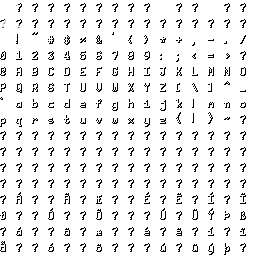
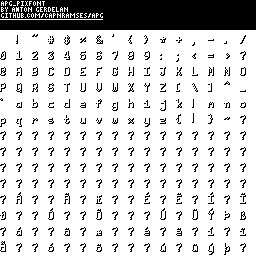
i think this works

diff --git a/116_pixelfont_shader/main.c b/116_pixelfont_shader/main.c
@@ -4,6 +4,7 @@
 #include "apg_unicode.h"
 #include "gfx.h"
 #include "glcontext.h"
+#include <assert.h>
 #include <math.h>
 #include <stdio.h>
 #include <string.h>
@@ -45,143 +46,205 @@ void _draw_mesh_instanced( const gfx_shader_t* shader_ptr, mat4 M, uint32_t vao,
   }
 }
 
+// In pixels.
+static int _get_spacing_for_codepoint( uint32_t codepoint ) {
+  if ( 'l' == codepoint || '!' == codepoint || '\'' == codepoint || '|' == codepoint || ':' == codepoint ) { return 2; }
+  if ( ',' == codepoint || '.' == codepoint || '`' == codepoint || ';' == codepoint ) { return 3; }
+  if ( '(' == codepoint || ')' == codepoint || ' ' == codepoint ) { return 4; }
+  if ( '{' == codepoint || '}' == codepoint ) { return 5; }
+  if ( '&' == codepoint ) { return 7; }
+  return 6;
+}
 
-work in progress - convert this function, stop trying to be too clever with instanced rendering.
+// TODO get rid of scale_x,scale_y and replace with aspect ratio and a single scale factor.
+// TODO avoid boxes overlapping - make them smaller to avoid artifacts, and adjust scales to suit.
 
-void text_to_vbo( const char* str, float at_x, float at_y, float scale_px, GLuint* points_vbo, GLuint* texcoords_vbo, int* point_count ) {
-  int len = strlen( str );
+/**
+ * @param str_ptr         Address of a null-terminated UTF-8 or ASCII string.
+ * @param points_vbo      An existing (previously generated) vertex buffer object for vertex points.
+ * @param texcoords_vbo   An existing (previously generated) vertex buffer object for texture coordinates.
+ * @param n_verts_ptr     Address of a variable to store the number of vertex points created. Must not be NULL.
+ */
+void text_to_vbo( const char* str_ptr, GLuint points_vbo, GLuint texcoords_vbo, size_t* n_verts_ptr, float* total_w, float* total_h ) {
+  const int atlas_cols = 16, atlas_rows = 16;
+  const size_t max_len = 2048;
+  // Size of a full glyph box in clip space, before aspect ratio calculation. 2.0 would cover the whole range from -1,1 on x and y on a square viewport.
+  const float quad_scale        = 2.0f;
+  const float magic_num         = 0.0625f; // TODO !!!! I have no idea if this is correct.
+  const float magic_linespacing = 0.0025f; // TODO !!!! relate to scale - try different scales/aspects/etc.
+  float at_x = 0.0f, at_y = 0.0f;          // This is starting centre of the top-left glyph box in clip space.
+  float max_x = 0.0f, min_y = 0.0f;
 
-  float* points_tmp    = (float*)malloc( sizeof( float ) * len * 12 );
-  float* texcoords_tmp = (float*)malloc( sizeof( float ) * len * 12 );
-  for ( int i = 0; i < len; i++ ) {
-    // get ascii code as integer
-    int ascii_code = str[i];
+  assert( str_ptr && points_vbo && texcoords_vbo && n_verts_ptr );
 
-    // work out row and column in atlas
-    int atlas_col = ( ascii_code - ' ' ) % ATLAS_COLS;
-    int atlas_row = ( ascii_code - ' ' ) / ATLAS_COLS;
+  size_t n_bytes = strnlen( str_ptr, max_len );
+  if ( n_bytes < 1 ) { return; }
+  int n_codepoints = apg_utf8_count_cp( str_ptr );
+  assert( n_codepoints > 0 );
 
-    // work out texture coordinates in atlas
-    float s = atlas_col * ( 1.0 / ATLAS_COLS );
-    float t = ( atlas_row + 1 ) * ( 1.0 / ATLAS_ROWS );
+  float* points_tmp = (float*)malloc( sizeof( float ) * n_codepoints * 12 ); // TODO make this a triangle strip. Remove run-time malloc, use a max string length.
+  float* texcoords_tmp = (float*)malloc( sizeof( float ) * n_codepoints * 12 ); // TODO make this a triangle strip. Remove run-time malloc, use a max string length.
 
-    // work out position of glyphtriangle_width
+  const float line_start_x = at_x;
+  for ( int i = 0, curr_byte = 0; curr_byte < n_bytes; i++, curr_byte++ ) {
+    int bytes_in_codepoint = 0;
+    uint32_t codepoint     = apg_utf8_to_cp( str_ptr + curr_byte, &bytes_in_codepoint );
+    assert( bytes_in_codepoint > 0 );
+    curr_byte += ( bytes_in_codepoint - 1 );
+    assert( codepoint < atlas_cols * atlas_rows );
+
+    int atlas_col = codepoint % atlas_cols;
+    int atlas_row = codepoint / atlas_cols;
+
+    float s     = atlas_col * ( 1.0f / atlas_cols );
+    float t     = ( atlas_row + 1 ) * ( 1.0f / atlas_rows ); // TODO why is this row + 1 - because texturing up from bottom?
     float x_pos = at_x;
-    float y_pos = at_y - scale_px / g_viewport_height * glyph_y_offsets[ascii_code];
+    float y_pos = at_y;
 
-    // move next glyph along to the end of this one
-    if ( i + 1 < len ) {
-      // upper-case letters move twice as far
-      at_x += glyph_widths[ascii_code] * scale_px / g_viewport_width;
+    // TODO check spacing scaling.
+    int spacing    = _get_spacing_for_codepoint( codepoint );
+    float extent_x = spacing * magic_num * quad_scale;
+    float extent_y = quad_scale;
+
+    // Move along for start of next glypg.
+    float gap_between_quads = 0.1f;                                   // 0.1 of a glyph image pixel
+    at_x += ( spacing + gap_between_quads ) * magic_num * quad_scale; // Move next glyph along to the end of this one.
+    if ( '\n' == codepoint ) {
+      at_x = line_start_x;
+      at_y -= ( quad_scale + magic_linespacing );
+      n_codepoints--; // Don't include vertices/accounting for linebreak.
+      i--;
+    } else if ( ' ' == codepoint || '\r' == codepoint ) { // TODO all other control symbols here.
+      n_codepoints--;                                     // Don't include vertices/accounting for space.
+      i--;
+    } else {
+      max_x = x_pos + extent_x > max_x ? x_pos + extent_x : max_x;
+      min_y = y_pos - extent_y < min_y ? y_pos - extent_y : min_y;
+
+      // Add 6 points and texture coordinates to buffers for each glyph.
+      points_tmp[i * 12]     = x_pos;
+      points_tmp[i * 12 + 1] = y_pos;
+      points_tmp[i * 12 + 2] = x_pos;
+      points_tmp[i * 12 + 3] = y_pos - extent_y;
+      points_tmp[i * 12 + 4] = x_pos + extent_x;
+      points_tmp[i * 12 + 5] = y_pos - extent_y;
+
+      points_tmp[i * 12 + 6]  = x_pos + extent_x;
+      points_tmp[i * 12 + 7]  = y_pos - extent_y;
+      points_tmp[i * 12 + 8]  = x_pos + extent_x;
+      points_tmp[i * 12 + 9]  = y_pos;
+      points_tmp[i * 12 + 10] = x_pos;
+      points_tmp[i * 12 + 11] = y_pos;
+
+      texcoords_tmp[i * 12]     = s;
+      texcoords_tmp[i * 12 + 1] = 1.0 - t + 1.0 / atlas_rows;
+      texcoords_tmp[i * 12 + 2] = s;
+      texcoords_tmp[i * 12 + 3] = 1.0 - t;
+      texcoords_tmp[i * 12 + 4] = s + 1.0 / atlas_cols * spacing * magic_num;
+      texcoords_tmp[i * 12 + 5] = 1.0 - t;
+
+      texcoords_tmp[i * 12 + 6]  = s + 1.0 / atlas_cols * spacing * magic_num;
+      texcoords_tmp[i * 12 + 7]  = 1.0 - t;
+      texcoords_tmp[i * 12 + 8]  = s + 1.0 / atlas_cols * spacing * magic_num;
+      texcoords_tmp[i * 12 + 9]  = 1.0 - t + 1.0 / atlas_rows;
+      texcoords_tmp[i * 12 + 10] = s;
+      texcoords_tmp[i * 12 + 11] = 1.0 - t + 1.0 / atlas_rows;
     }
-    // add 6 points and texture coordinates to buffers for each glyph
-    points_tmp[i * 12]     = x_pos;
-    points_tmp[i * 12 + 1] = y_pos;
-    points_tmp[i * 12 + 2] = x_pos;
-    points_tmp[i * 12 + 3] = y_pos - scale_px / g_viewport_height;
-    points_tmp[i * 12 + 4] = x_pos + scale_px / g_viewport_width;
-    points_tmp[i * 12 + 5] = y_pos - scale_px / g_viewport_height;
-
-    points_tmp[i * 12 + 6]  = x_pos + scale_px / g_viewport_width;
-    points_tmp[i * 12 + 7]  = y_pos - scale_px / g_viewport_height;
-    points_tmp[i * 12 + 8]  = x_pos + scale_px / g_viewport_width;
-    points_tmp[i * 12 + 9]  = y_pos;
-    points_tmp[i * 12 + 10] = x_pos;
-    points_tmp[i * 12 + 11] = y_pos;
-
-    texcoords_tmp[i * 12]     = s;
-    texcoords_tmp[i * 12 + 1] = 1.0 - t + 1.0 / ATLAS_ROWS;
-    texcoords_tmp[i * 12 + 2] = s;
-    texcoords_tmp[i * 12 + 3] = 1.0 - t;
-    texcoords_tmp[i * 12 + 4] = s + 1.0 / ATLAS_COLS;
-    texcoords_tmp[i * 12 + 5] = 1.0 - t;
-
-    texcoords_tmp[i * 12 + 6]  = s + 1.0 / ATLAS_COLS;
-    texcoords_tmp[i * 12 + 7]  = 1.0 - t;
-    texcoords_tmp[i * 12 + 8]  = s + 1.0 / ATLAS_COLS;
-    texcoords_tmp[i * 12 + 9]  = 1.0 - t + 1.0 / ATLAS_ROWS;
-    texcoords_tmp[i * 12 + 10] = s;
-    texcoords_tmp[i * 12 + 11] = 1.0 - t + 1.0 / ATLAS_ROWS;
   }
 
-  glBindBuffer( GL_ARRAY_BUFFER, *points_vbo );
-  glBufferData( GL_ARRAY_BUFFER, len * 12 * sizeof( float ), points_tmp, GL_DYNAMIC_DRAW );
-  glBindBuffer( GL_ARRAY_BUFFER, *texcoords_vbo );
-  glBufferData( GL_ARRAY_BUFFER, len * 12 * sizeof( float ), texcoords_tmp, GL_DYNAMIC_DRAW );
+  glBindBuffer( GL_ARRAY_BUFFER, points_vbo );
+  glBufferData( GL_ARRAY_BUFFER, n_codepoints * 12 * sizeof( float ), points_tmp, GL_DYNAMIC_DRAW ); // TODO make triangle strip
+  glBindBuffer( GL_ARRAY_BUFFER, texcoords_vbo );
+  glBufferData( GL_ARRAY_BUFFER, n_codepoints * 12 * sizeof( float ), texcoords_tmp, GL_DYNAMIC_DRAW ); // TODO make triangle strip
+  glBindBuffer( GL_ARRAY_BUFFER, 0 );
 
   free( points_tmp );
   free( texcoords_tmp );
 
-  *point_count = len * 6;
+  *n_verts_ptr = n_codepoints * 6; // TODO make triangle strip
+  *total_w     = max_x;
+  *total_h     = -min_y;
 }
 
 int main( int argc, char** argv ) {
+  const char* default_str = "\"'Hello', `World`!\"\náéíóú\n{12345}\n(09876)\n{HellÓ}\n&is the&biggest& char\n";
+  const char* user_str    = default_str;
+
+  // Allow user-specified string.
   if ( argc < 2 ) {
-    printf( "Usage: %s SOME_USER_STRING\n", argv[0] );
-    return 0;
-  }
-  const char* user_str = argv[1];
-  int spacing_cumu     = 0;
-  uint32_t n_cps       = apg_utf8_count_cp( user_str );
-  printf( "User string: %s has %u codepoints\n", user_str, n_cps );
-  uint32_t* cps_ptr = malloc( n_cps * sizeof( uint32_t ) );
-  if ( !cps_ptr ) { return 1; }
-  uint32_t* spacing_ptr = malloc( n_cps * sizeof( uint32_t ) );
-  if ( !spacing_ptr ) { return 1; }
-  uint32_t curr_byte = 0;
-  for ( uint32_t i = 0; i < n_cps; i++ ) {
-    const char* curr_utf8_cp = &user_str[curr_byte];
-    int sz                   = 0;
-    cps_ptr[i]               = apg_utf8_to_cp( curr_utf8_cp, &sz );
-    spacing_ptr[i]           = spacing_cumu; // TODO
-    curr_byte += sz;
-    spacing_cumu += 8;
-    printf( "%i) %u\n", i, cps_ptr[i] );
+    printf( "Usage: %s SOME_USER_STRING\nUsing default string.\n", argv[0] );
+  } else {
+    user_str = argv[1];
   }
 
-  if ( !gfx_start( "pixelart antialiasing demo", NULL, false ) ) { return 1; }
-
+  // General graphics prep.
+  if ( !gfx_start( "bitmap font antialiasing demo", NULL, false ) ) { return 1; }
   gfx_shader_t pixel_shader = gfx_create_shader_program_from_files( "pixel_text.vert", "pixel_text.frag" );
   if ( pixel_shader.program_gl == 0 ) { return 1; }
   gfx_texture_t pixel_texture = gfx_texture_create_from_file( image_filename, ( gfx_texture_properties_t ){ .bilinear = true, .is_srgb = true } );
   uint32_t u_fb_dims_loc      = gfx_uniform_loc( &pixel_shader, "u_fb_dims" );
   uint32_t u_atlas_index_loc  = gfx_uniform_loc( &pixel_shader, "u_atlas_index" );
 
-  gfx_buffer_t instanced_buffers[2];
-  instanced_buffers[0] = gfx_buffer_create( (float*)cps_ptr, 1, n_cps, true );
-  instanced_buffers[1] = gfx_buffer_create( (float*)spacing_ptr, 1, n_cps, true );
+  // Create the quads with atlas-looked texture coords.
+  gfx_mesh_t mesh = gfx_mesh_create_empty( true, false, false, true, false, false, false, false, true );
+  float total_x = 0.0f, total_y = 0.0f;
+
+  // TODO - at_x, at_y for position should be a uniform. this should always use 0,0 for top-left, otherwise it's a nightmare to align with aspect ratio.
+  text_to_vbo( user_str, mesh.points_vbo, mesh.texcoords_vbo, &mesh.n_vertices, &total_x, &total_y );
+
+  printf( "\nn_verts = %u\n", (uint32_t)mesh.n_vertices );
+
+  { // Do a little dance to link shader attributes to vertex buffer memory.
+    glBindVertexArray( mesh.vao );
+    glBindBuffer( GL_ARRAY_BUFFER, mesh.points_vbo );
+    glEnableVertexAttribArray( 0 );
+    glVertexAttribPointer( 0, 2, GL_FLOAT, GL_FALSE, 0, NULL );
+    glBindBuffer( GL_ARRAY_BUFFER, mesh.texcoords_vbo );
+    glEnableVertexAttribArray( 1 );
+    glVertexAttribPointer( 1, 2, GL_FLOAT, GL_FALSE, 0, NULL );
+    glBindBuffer( GL_ARRAY_BUFFER, 0 );
+    glBindVertexArray( 0 );
+  }
 
   while ( !gfx_should_window_close() ) {
     int ww = 0, wh = 0, fbw = 0, fbh = 0;
-    double t = gfx_get_time_s();
-    mat4 S   = scale_mat4( ( vec3 ){ .9 + cosf( t ) * 0.1f, .9, .2 } );
-    mat4 R   = rot_z_deg_mat4( t * 0.1f );
-    mat4 T   = translate_mat4( ( vec3 ){ .x = cosf( t * 0.2f ) * 0.1, .y = 0, .z = sinf( t * 0.1f ) * 0.2f } );
-    mat4 M   = mult_mat4_mat4( mult_mat4_mat4( T, R ), S );
-
-    gfx_poll_events();
-    gfx_clear_colour_and_depth_buffers( 0.5f, 0.5f, 0.5f, 1.0f );
-    gfx_window_dims( &ww, &wh );
     gfx_framebuffer_dims( &fbw, &fbh );
-    gfx_viewport( 0, 0, ww, wh );
+    double t = gfx_get_time_s();
 
-    // No need for alpha-blending if using a hard discard.
-    gfx_alpha_testing( true );
-    gfx_depth_testing( false );
-    gfx_uniform1i( &pixel_shader, u_atlas_index_loc, cps_ptr[0] );
-    gfx_uniform2f( &pixel_shader, u_fb_dims_loc, fbw, fbh );
-    // gfx_draw_mesh( GFX_PT_TRIANGLE_STRIP, &pixel_shader, identity_mat4(), identity_mat4(), M, gfx_ss_quad_mesh.vao, gfx_ss_quad_mesh.n_vertices,
-    // &pixel_texture, 1 );
-    _draw_mesh_instanced( &pixel_shader, M, gfx_ss_quad_mesh.vao, gfx_ss_quad_mesh.n_vertices, &pixel_texture, 1, n_cps, instanced_buffers, 2 );
-    gfx_alpha_testing( false );
+    if ( fbw != 0 && fbh != 0 ) {
+      mat4 S = scale_mat4( ( vec3 ){ .9 + cosf( t ) * 0.1f, .9, .2 } );
+      mat4 R = rot_z_deg_mat4( t * 0.5f );
+      mat4 T = translate_mat4( ( vec3 ){ .x = cosf( t * 0.2f ) * 0.1, .y = 0, .z = sinf( t * 0.1f ) * 0.2f } );
+      mat4 M = mult_mat4_mat4( mult_mat4_mat4( T, R ), S );
+
+      gfx_poll_events();
+      gfx_clear_colour_and_depth_buffers( 0.5f, 0.5f, 0.5f, 1.0f );
+      gfx_window_dims( &ww, &wh );
+      gfx_viewport( 0, 0, ww, wh );
+
+      // No need for alpha-blending if using a hard discard.
+      gfx_alpha_testing( true );
+      gfx_depth_testing( false );
+      gfx_uniform2f( &pixel_shader, u_fb_dims_loc, fbw, fbh );
+      gfx_uniform4f( &pixel_shader, pixel_shader.u_tint, fmod( t, 2.0 ), fmod( t, 5.0 ), fmod( t, 3.0 ), 1.0f );
+
+      float text_scale = 16.0f / fbh * 8.123f; // 8.123x the actual pixel size of the font.
+      gfx_uniform2f( &pixel_shader, pixel_shader.u_scale, text_scale, text_scale );
+
+      // To centre the text:
+      bool centring = true;
+      if ( centring ) {
+        gfx_uniform2f( &pixel_shader, pixel_shader.u_pos, -total_x, total_y );
+      } else {
+        gfx_uniform2f( &pixel_shader, pixel_shader.u_pos, 0.0f, 0.0f );
+      }
+      gfx_draw_mesh( GFX_PT_TRIANGLES, &pixel_shader, identity_mat4(), identity_mat4(), M, mesh.vao, mesh.n_vertices, &pixel_texture, 1 );
+
+      gfx_alpha_testing( false );
+    }
 
     gfx_swap_buffer();
   }
-
-  free( cps_ptr );
-  free( spacing_ptr );
-  gfx_buffer_delete( &instanced_buffers[0] );
-  gfx_buffer_delete( &instanced_buffers[1] );
 
   gfx_stop();
   return 0;

diff --git a/Readme.md b/Readme.md
@@ -130,7 +130,8 @@ Some demos are WebGL so need to run in Browser and may require a local server. A
 | 112     | `decals`                    | Mesh-creation of decals as per FoGED Ch. 10.1.                             | started             |
 | 113     | `gles3`                     | OpenGL ES 3.2 minimal demo on desktop.                                     | working             |
 | 114     | `ktx_basis`                 | On-the-fly compressed image transcoding with Basis Universal.              | working             |
-| 115     | `pixelart_subpixel`         | Shader to display pixel art without shimmering artifacts.                  | working             |
+| 115     | `pixelart_subpixel`         | Anti-aliasing shader to display pixel art without shimmering artifacts.    | working             |
+| 116     | `pixelfont_shader`          | Typical font atlas rendering, also using pixel art anti-aliasing.          | working             |
 | xxx     | `draco`                     | Example of mesh compression using Google Draco.                            | proposed            |
 | xxx     | `fire`                      | Shader effect using multi-texturing for fire animation.                    | proposed            |
 | xxx     | `sw_texture`                | Basic Texture Mapping for software rasteriser.                             | proposed            |
